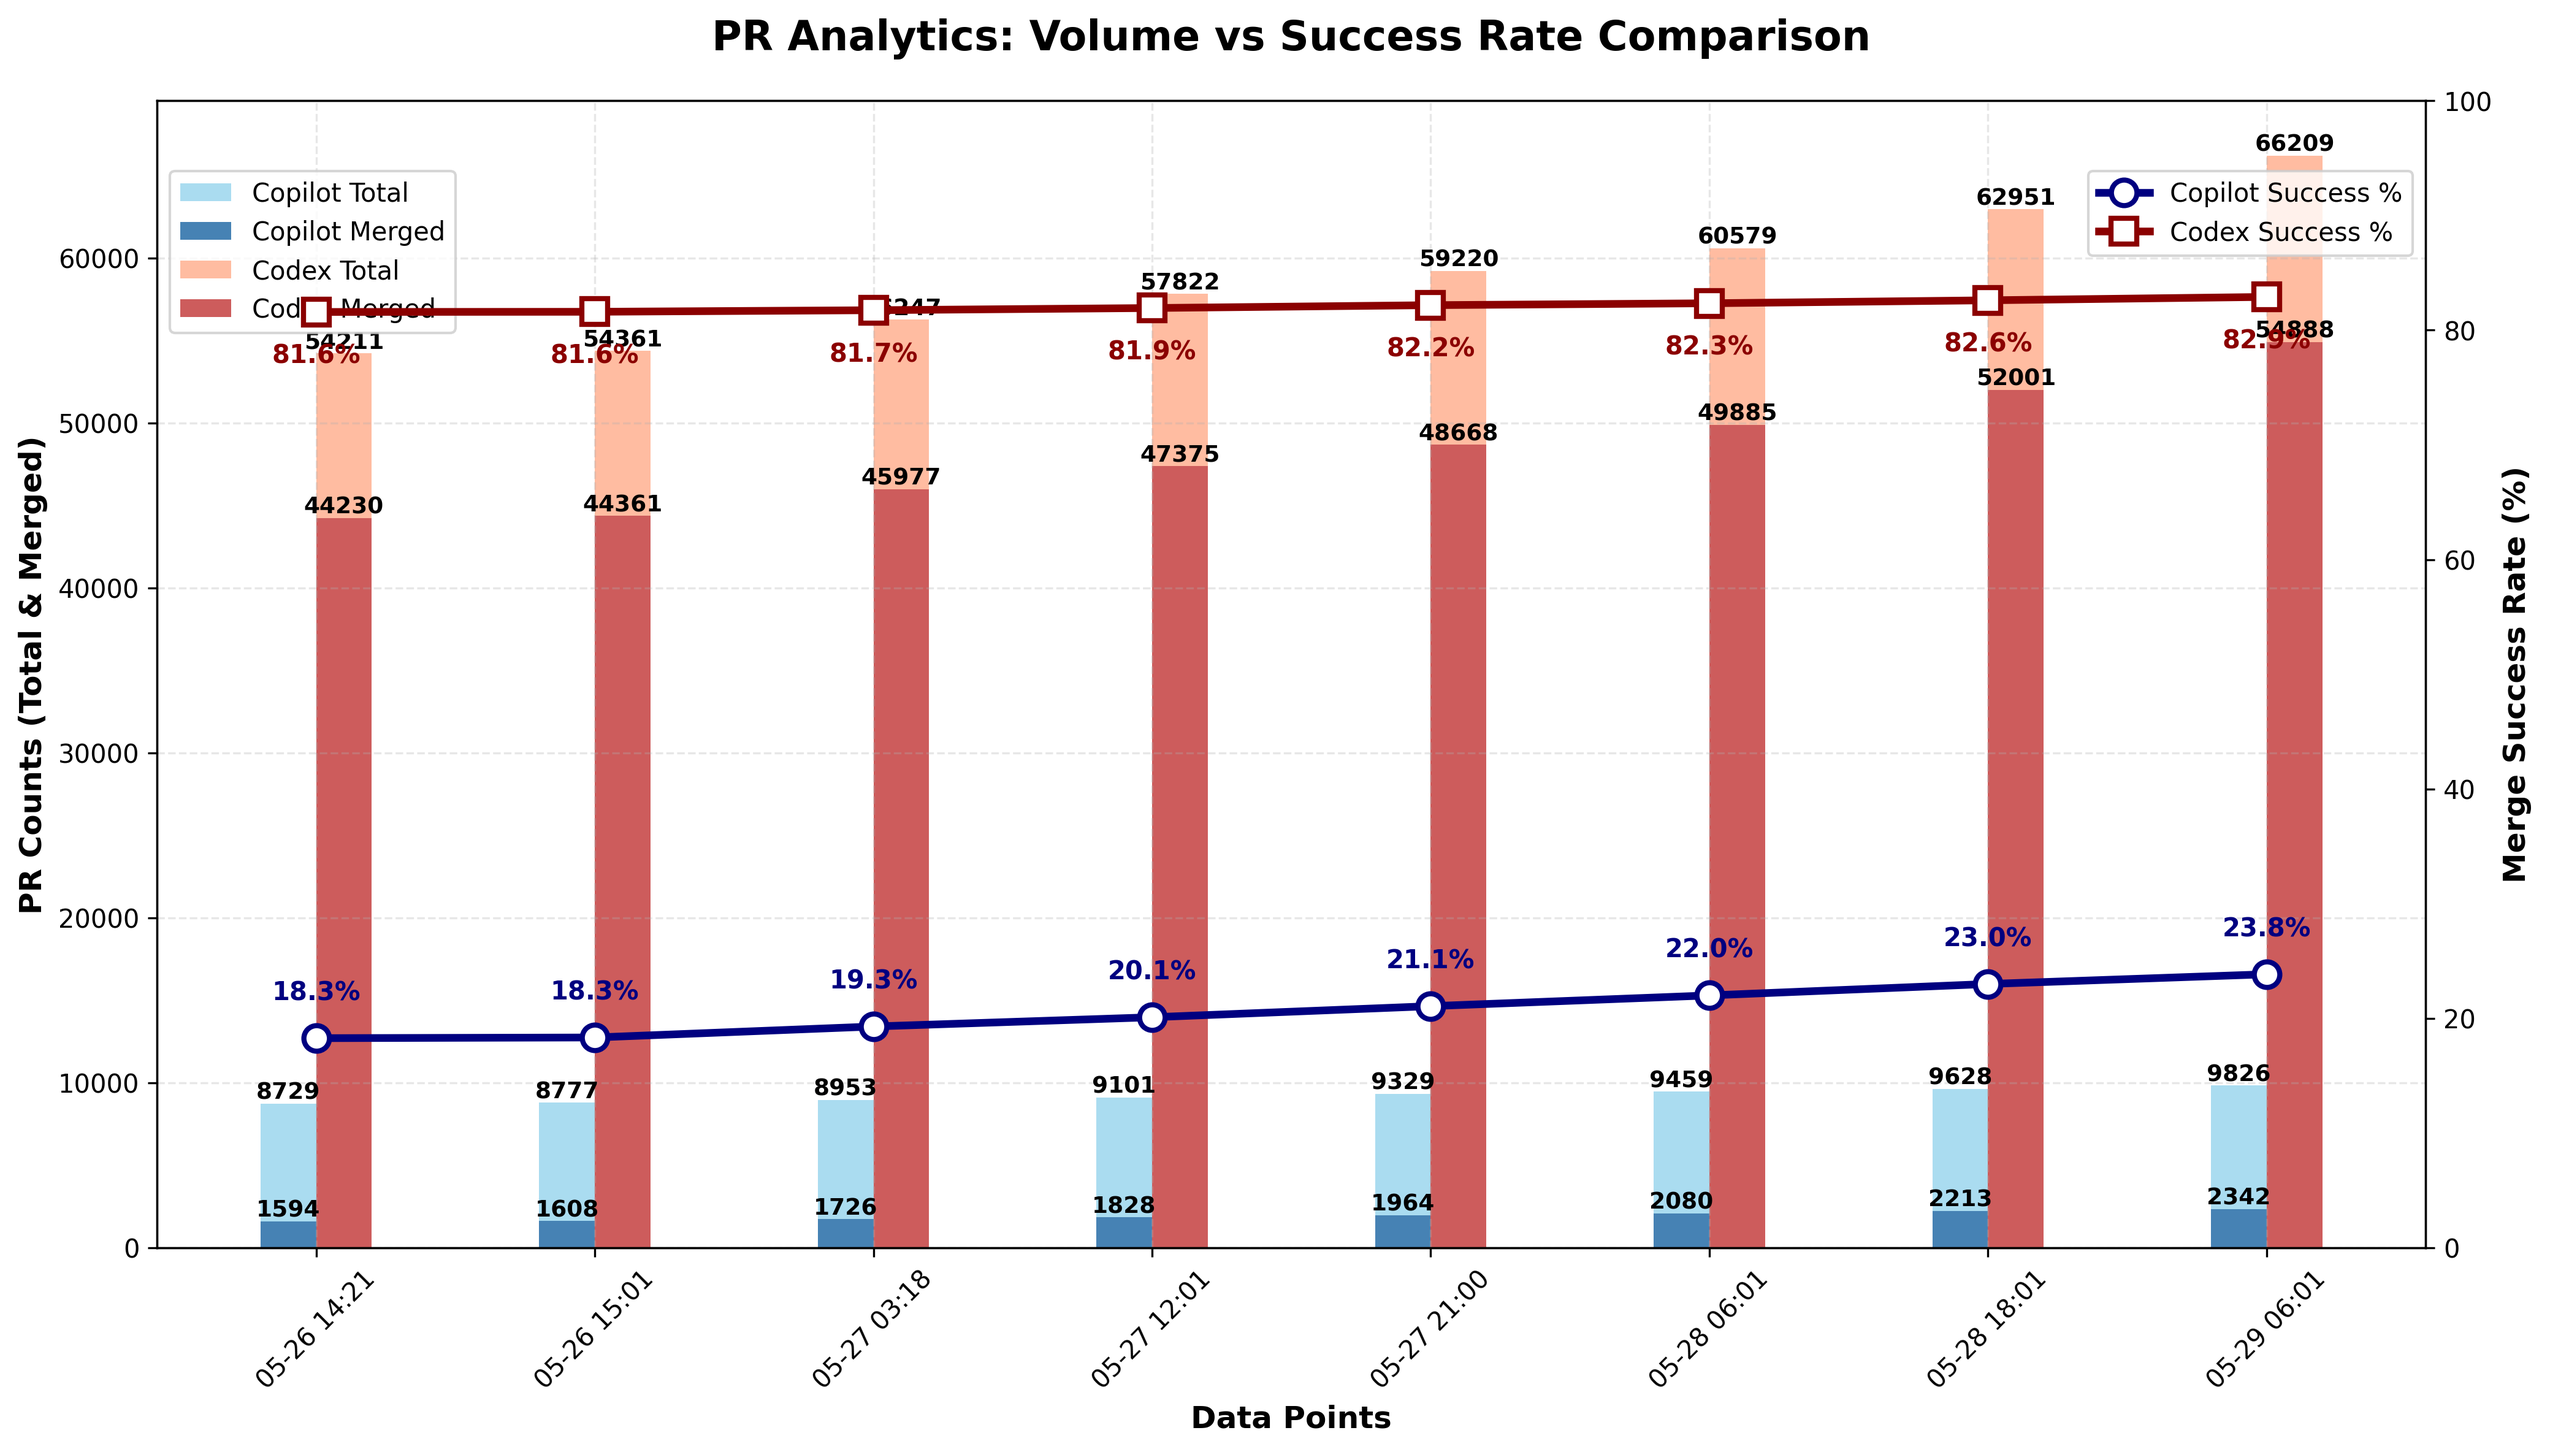
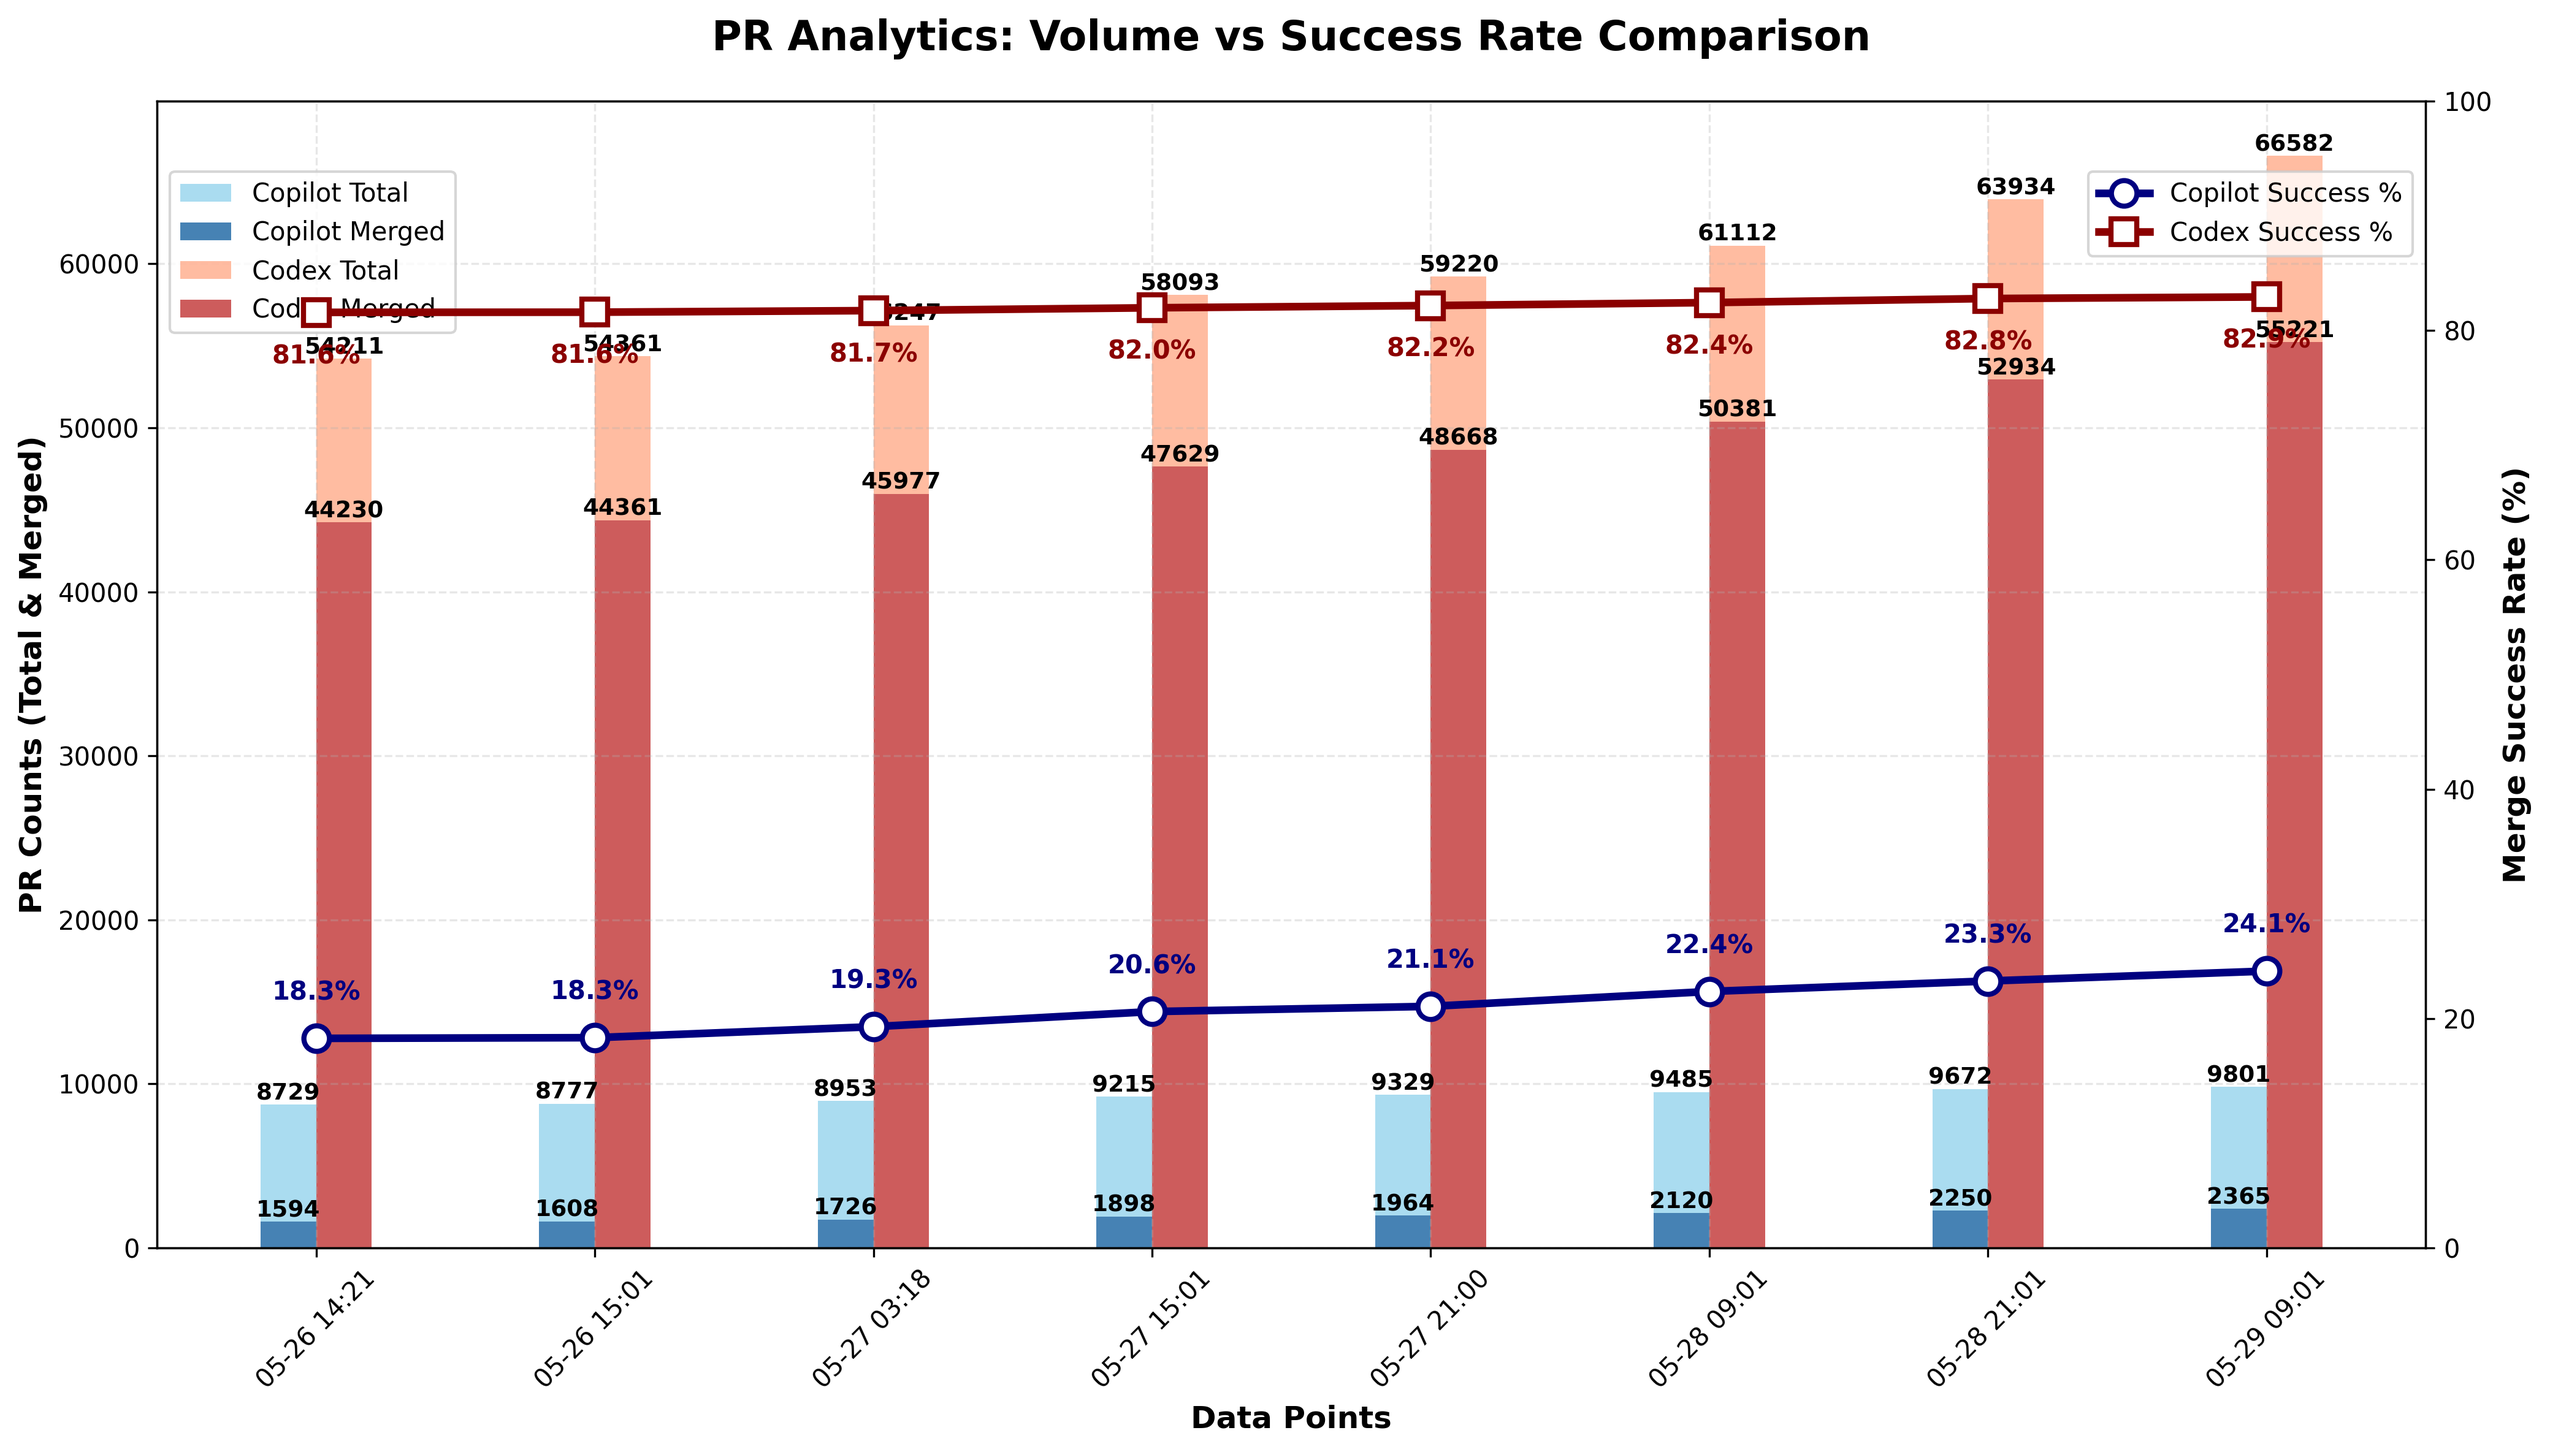
chore: update PR‑approval chart

diff --git a/docs/index.html b/docs/index.html
@@ -44,22 +44,22 @@
                 <tbody>
                     <tr>
                         <td>Copilot</td>
-                        <td>9,826</td>
-                        <td>2,342</td>
-                        <td>23.83%</td>
+                        <td>9,801</td>
+                        <td>2,365</td>
+                        <td>24.13%</td>
                     </tr>
                     <tr>
                         <td>Codex</td>
-                        <td>66,209</td>
-                        <td>54,888</td>
-                        <td>82.90%</td>
+                        <td>66,582</td>
+                        <td>55,221</td>
+                        <td>82.94%</td>
                     </tr>
                 </tbody>
             </table>
         </section>
 
         <footer>
-            <p>Last updated: <span id="last-updated">May 29, 2025 06:01 UTC</span></p>
+            <p>Last updated: <span id="last-updated">May 29, 2025 09:01 UTC</span></p>
             <p><a href="https://github.com/aavetis/ai-pr-watcher">View on GitHub</a></p>
         </footer>
     </div>

diff --git a/README.md b/README.md
@@ -19,5 +19,5 @@ Explore the GitHub search queries used:
 
 | Project | Total PRs | Merged PRs | Merge Rate |
 | ------- | --------- | ---------- | ---------- |
-| Copilot | 9,826 | 2,342 | 23.83% |
-| Codex   | 66,209 | 54,888 | 82.90% |
+| Copilot | 9,801 | 2,365 | 24.13% |
+| Codex   | 66,582 | 55,221 | 82.94% |
